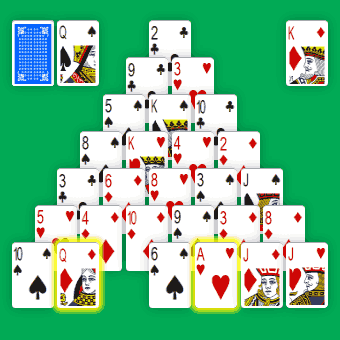
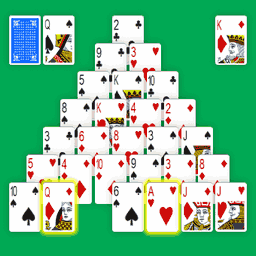
Wip: Canfield beta.

diff --git a/js/canfield.min.js b/js/canfield.min.js
@@ -1,0 +1,1 @@
+"use strict";function Start(bs){K.start(bs);ck(K.ba);$("#stock").on("click",ci);$(options.src).on(options.evt,".card:last-child",cg);$("#game, #again").on("click",cf);$("#hint").on("click",cj);$("#undo").on("click",cm);$("#tool, #list").on("click",ch);$("body").on("contextmenu",cy);$(document).on("keyup",function(n){n.which===113?cf():n.which===72?cj():n.which===90?n.ctrlKey&&cm():(n.which===13||n.which===32)&&$("#win").is(":visible")&&cf()}).on("keydown",function(n){n.which===32&&n.preventDefault()});cq()}function cy(n){var bp,t,i,bu;for(cw(),K.bh(),bp=null,t=null,i=0;i<K.bo.length;i++)if(bp=K.bo[i],bp.aa!=="draw"){if(!bp.ae.ax())if(K.id==="MonteCarlo"){if(bp.az[0]!=="t")continue}else if(K.id==="Pyramid"){if(bp.az[0]!=="t")continue}else continue;t=bp;break}return t===null?!1:(bu=K.ca(t.aa,t.az,t.ae.id),cd(bu),cy(n),!1)}function cu(){try{try{$(".ui-draggable").draggable("destroy")}catch(n){}try{$(".drop").droppable("destroy")}catch(n){}}catch(t){}$("body").css("cursor","auto")}function ci(){K.bk();ck(K.ba);cq()}function co(n,t){var aa=t.draggable[0].id,az=$("#"+aa).parent().attr("id"),bu=K.ca(aa,az,this.id);cd(bu)}function cp(){if(options.dad!==""){var n={containment:"#solitaire",cursor:"move",revert:!0,opacity:1.7,revertDuration:"fast",helper:function(){var n=$(this),af=n.nextAll().addBack(),t=$("<div/>").append(af.clone()).css("margin-top",n.css("margin-top")).css("margin-left",n.css("margin-left"));return af.addClass("hide"),t},start:function(n,t){t.helper.css("z-index",1);var i={hoverClass:"hovered",tolerance:options.mod,drop:co};$(".drop").droppable(i)},stop:function(n,t){t.helper.css("z-index",0);$(".card").removeClass("hide")}};$(options.dad).draggable(n)}}function cq(){$(".dialog").hide();cp();cl();var ce=K.ce();ce!==0&&($("#win h3").hide(),ce>0&&$("#win .win").show(),ce<0&&$("#win .lost").show(),$("#win").show(),$("#overlay").show(),setTimeout(function(){$("#overlay").hide()},1e3))}function cs(ca){var n=K.bw(ca.az);ck([n]);ck([ca.ae])}function cd(bu){if(bu.length!==0){cu();for(var n=0;n<bu.length;n++)cs(bu[n]);cq()}}function cf(){K.count<10?(K.start(),ck(K.ba),cq()):location.reload()}function cg(n,aa){aa||(aa=this.id);var az=$("#"+aa).parent().attr("id"),bu=K.ca(aa,az,options.dst);cd(bu)}function ch(){$(".dialog").hide();var cz=$("#run");cz.show()}function cj(){var bp;for(cw();L.length>0;)clearTimeout(L.pop());if($(".hint").removeClass("hint"),$("#zombie").remove(),bp=K.bl(),bp!==null){var i=500,t=1500,aa=bp.aa,n=bp.ae;n.id==="stock"?(i-=500,t-=500):$("#"+aa).addClass("hint");n.id==="waste"?t-=500:n.aw()?$("#"+n.id).append("<div id='zombie' class='card hint space'>"):(aa=n.ak().ap,L.push(setTimeout(function(){$("#"+aa).addClass("hint")},i)));L.push(setTimeout(function(){$(".hint").removeClass("hint");$("#zombie").remove()},t))}}function ck(ba){for(var ar,n=0;n<ba.length;n++)ba[n]!==null&&($("#"+ba[n].id+" .card").remove(),$("#"+ba[n].id).append(ba[n].ad()));K.bg!==null&&(ar=K.bg===9?"10":E[K.bg][0],$(".drop .draw div").text(ar))}function cl(){var t=K.bj()?"+":"×",n;$("#stock .draw div").text(t);n=K.be.af.length;K.id==="AcesUp"&&(n/=4);n<6&&n>0&&$(".count .card:last-child").html("<div>"+n.toString()+"<\/div>")}function cm(){cd(K.ct())}function cw(){K.bf!==null&&(K.bf.ae.ak().ao=!1,ck([K.bf.ae]),K.bf=null)}var E=["Ace","2","3","4","5","6","7","8","9","10","Jack","Queen","King"],F=["Hearts","Spades","Diamonds","Clubs"],G=0,H=1,I=2,J=3,A=function(){function A(aa,az,ae){this.aa=aa;this.az=az;this.ae=ae}return A}(),B=function(){function B(n){this.id=n;this.ar=n%13;this.at=Math.floor(n/13);this.ay=this.at===G||this.at===I;this.au=!this.ay;this.ai=!1;this.ao=!1;this.ap=F[this.at][0]+(this.ar===9?"T":E[this.ar][0]);this.html="<div id='"+this.ap+"' class='card down'><\/div>"}return B.prototype.aq=function(){return this.ar===0},B.prototype.as=function(){return this.ar===12},B.prototype.ad=function(){var n=this.html;return this.ao&&(n=n.replace(" down"," down selected")),this.ai&&(n=n.replace(" down"," up")),n},B.prototype.toString=function(){return E[this.ar]+" "+F[this.at]},B}(),C=function(){function C(){this.af=[];for(var n=0;n<52;n++)this.af[n]=new B(n);for(n=0;n<this.af.length;n++)this.af[n]=this.af.splice(Math.floor(this.af.length*Math.random()),1,this.af[n])[0]}return C.prototype.ag=function(n){return n>this.af.length&&(n=this.af.length),this.af.splice(0,n)},C}(),D=function(){function D(ah,af,n){this.ah=ah;this.af=af;this.id=n;this.aj=-1}return D.prototype.ak=function(){return this.af[this.af.length-1]},D.prototype.al=function(aa){for(var n=0;n<this.af.length;n++)if(this.af[n].ap===aa)return n;return-1},D.prototype.am=function(){for(var n=0;n<this.af.length;n++)if(this.af[n].ai)return n;return-1},D.prototype.aw=function(){return this.af.length===0},D.prototype.ax=function(){return this.id[0]==="f"},D.prototype.ac=function(){return this.id[0]==="r"},D.prototype.av=function(){return this.id[0]==="s"},D.prototype.ab=function(){return this.id[0]==="t"},D.prototype.an=function(){return this.id[0]==="w"},D.prototype.ad=function(){var r="",i=this.aj,n,t;for(i<0&&(i=this.af.length),n=this.af.length-i,n<0&&(n=0),t=n;t<this.af.length;t++)r+=this.af[t].ad();return r},D.prototype.toString=function(){return this.id},D}(),T=function(){function T(){this.ba=[];this.bz=null;this.be=null;this.br=null;this.bt=[];this.by=[];this.bu=[];this.bi=!1;this.bo=null;this.bp=-1;this.bq=!0;this.id="Canfield";this.bs=1;this.count=0;this.bd=!0;this.bf=null;this.bg=null}return T.prototype.bh=function(){var n,t,r,u,aa,i,e,f,af,o;for(this.bo=[],this.bp=-1,i=this.bm(),e=i.length,n=0;n<e;n++)for(aa=i[n].ak().ap,t=0;t<this.by.length;t++)if(this.bb(aa,i[n].id,this.by[t].id)){this.bo.push(new A(aa,i[n].id,this.by[t]));break}for(f=[],n=0;n<e;n++)for(af=this.getCards(i[n]),r=0;r<af.length;r++)for(aa=af[r].ap,t=0;t<this.bt.length;t++)if(this.bb(aa,i[n].id,this.bt[t].id)){for(o=!1,u=0;u<this.bo.length;u++)if(this.bo[u].az===this.bt[t].id&&this.bo[u].ae.id===i[n].id){o=!0;break}o||(r===0?this.bo.push(new A(aa,i[n].id,this.bt[t])):f.push(new A(aa,i[n].id,this.bt[t])))}f.length>0&&(this.bo=this.bo.concat(f));this.bo.length===0&&this.bj()&&this.bo.push(new A("draw",this.be.id,this.be));this.bq=this.bo.length!==0},T.prototype.bj=function(){return this.id==="Cruel"||this.id==="MonteCarlo"?!this.bd:this.be&&this.be.af.length>0?!0:this.br&&this.br.af.length>0?!0:!1},T.prototype.ag=function(bs){var t=function(ah){var n=null;switch(ah){case 11:break;case 0:n="stock";break;case 1:n="waste";break;case 2:n="reserve";break;case 3:case 4:case 5:case 6:n="f"+(ah-3).toString();break;default:n="t"+(ah-7).toString()}return n},n;for(this.cz(t),this.by[0].af=this.be.af.splice(0,1),this.by[0].af[0].ai=!0,this.bg=this.by[0].af[0].ar,n=0;n<this.bt.length;n++)this.bt[n].af=this.be.af.splice(0,1),this.bt[n].af[0].ai=!0;this.bz.af=this.be.af.splice(0,13);this.bz.af[12].ai=!0;bs||(bs=this.bs);this.bs=bs;this.br.aj=3;this.bk()},T.prototype.bk=function(){var n,t;if(this.be.aw()){if(!this.br.aw()){for(this.cr("list",null,null);!this.br.aw();)n=this.br.af.pop(),n.ai=!1,this.be.af.push(n),this.cr(n.ap,this.br.id,this.be),this.cr(n.ap,this.be.id,null);this.cr("list",null,null)}}else{for(this.bs!==1&&this.cr("list",null,null),t=0;t<this.bs;t++)this.be.aw()||(n=this.be.af.pop(),this.br.af.push(n),this.cr(n.ap,this.be.id,this.br),n.ai=!0,this.cr(n.ap,this.br.id,null));this.bs!==1&&this.cr("list",null,null)}this.bd=!0;this.bh()},T.prototype.getCards=function(ae){var t=ae.af.length,i=t-1,r=[],n;for(this.id==="Yukon"&&(i=ae.am()),n=i;n<t;n++)r.push(ae.af[n]);return r},T.prototype.bl=function(){return(this.bo===null&&this.bh(),!this.bq)?null:(this.bp++,this.bp===this.bo.length&&(this.bp=0),this.bo[this.bp])},T.prototype.bm=function(){var n=this.bt.filter(function(n){return!n.aw()}),t=this.id==="Cruel";return n.sort(function(n,i){var r=i.af.length-n.af.length;return t&&(r=i.ak().ar-n.ak().ar),r===0&&(r=n.ah-i.ah),r}),this.id==="Pyramid"&&this.br.af.length>0&&n.push(this.br),this.id==="Canfield"&&this.br.af.length>0&&n.push(this.br),this.id==="Canfield"&&this.bz.af.length>0&&n.push(this.bz),n},T.prototype.bw=function(n){for(var t=0;t<this.ba.length;t++)if(this.ba[t].id===n)return this.ba[t];return null},T.prototype.bb=function(aa,az,n){var u,i;if(this.bi)return!0;if(az===n)return!1;var r=this.bw(az),f=r.al(aa),t=r.af[f];return t.ai?r.ab()&&f!==0&&f!==r.af.length-1?!1:(u=this.bw(n),i=u.ak(),u.ab())?u.aw()?r.ac()?!0:this.bz.aw()?!0:!1:t.ay===i.ay?!1:t.ar===i.ar-1?!0:t.as()&&i.aq():u.ax()?aa!==r.ak().ap?!1:u.aw()?t.ar===this.bg:t.at!==i.at?!1:t.ar===i.ar+1?!0:t.aq()&&i.as():!1:!1},T.prototype.ca=function(aa,az,n){var u=["f0","f1","f2","f3"],t,r,i,bu;for(n!=="?"&&(u=[n]),t=0;t<u.length;t++){if(n=u[t],this.bb(aa,az,n))break;n=""}if(n==="")return[];var f=this.bw(az),e=this.bw(n),o=f.al(aa),af=f.af.splice(o);for(t=0;t<af.length;t++)e.af.push(af[t]);return this.bd=!1,r=null,this.bi||(i=f.ak(),i&&!i.ai&&(i.ai=!0,r=i.ap)),bu=[this.cr(aa,az,e)],r&&bu.push(this.cr(r,az,null)),bu},T.prototype.cz=function(n){for(var r=new C,i,t=0;t<99;t++){if(i=n(t),i===null)break;this.ba[t]=new D(t,[],i)}for(this.bt=[],this.by=[],t=0;t<this.ba.length;t++)switch(this.ba[t].id[0]){case"r":this.bz=this.ba[t];break;case"s":this.be=this.ba[t];break;case"w":this.br=this.ba[t];break;case"t":this.bt.push(this.ba[t]);break;case"f":this.by.push(this.ba[t])}this.be||(this.be=new D(99,[],""));this.be.af=r.ag(99);this.bu=[];this.bo=null},T.prototype.start=function(bs){for(var ce=-1;ce===-1;)this.ag(bs),ce=this.ce();this.count++},T.prototype.ce=function(){var n=this.by.reduce(function(n,t){return n+t.af.length},0);return n===52?1:n===48&&this.id==="AcesUp"?1:(n=this.bt.reduce(function(n,t){return n+t.af.length},0),n===0&&this.id==="Golf")?1:n===0&&this.id==="Pyramid"?1:(this.bh(),!this.bq)?-1:0},T.prototype.cr=function(aa,az,ae){this.bo=null;var ca=new A(aa,az,ae);return this.bi||this.bu.push(ca),ca},T.prototype.ct=function(){var n,t,i,r,u,bu;if(this.bu.length===0)return[];n=this.bu[this.bu.length-1];t=0;n.aa==="list"?(t=99999,n=this.bu.pop()):t=n.ae===null?2:1;i=[];this.bi=!0;do n=this.bu.pop(),n.aa==="list"?t=0:n.ae===null?(r=this.bw(n.az),u=r.al(n.aa),r.af[u].ai=!r.af[u].ai,i.push(n)):(bu=this.ca(n.aa,n.ae.id,n.az),i.push(bu[0])),t--;while(t>0);return this.bi=!1,i},T}(),K=new T,L=[],options={evt:"dblclick",src:"#tableaux, #waste",dst:"?",dad:"#plateaux .up:last-child, #tableaux .up:last-child, #tableaux .up:first-child",mod:"pointer"}

diff --git a/canfield/index.html b/canfield/index.html
@@ -24,6 +24,19 @@
     <!--[if lt IE 9]>
       <script src="../js/html5shiv.min.js"></script>
     <![endif]-->
+    <style type="text/css">
+#plateaux .draw div {
+  color: #eee;
+  cursor: default;
+  font-size: 4rem;
+  font-weight: bold;
+  margin-top: -3rem !important;
+  opacity: .6;
+  position: absolute;
+  width: 100%;
+  top: 50%;
+}
+    </style>
   </head>
 
   <body id="canfield">
@@ -47,9 +60,9 @@
           <div id="waste" class="column pile pile-stack"></div>
           <div class="column space pile"><!-- space --></div>
           <div id="f0" class="column drop pile pile-stack"></div>
-          <div id="f1" class="column drop pile pile-stack"></div>
-          <div id="f2" class="column drop pile pile-stack"></div>
-          <div id="f3" class="column drop pile pile-stack"></div>
+          <div id="f1" class="column drop pile pile-stack"><div class="draw"><div>?</div></div></div>
+          <div id="f2" class="column drop pile pile-stack"><div class="draw"><div>?</div></div></div>
+          <div id="f3" class="column drop pile pile-stack"><div class="draw"><div>?</div></div></div>
         </div>
 
         <div id="tableaux" class="row">
@@ -113,18 +126,8 @@
           the stock (top left) and the game starts with one card turned into the
           waste pile.
         </p>
-        <ul>
-          <li>You can play the last card of each pile from the tableau to the
-            foundation of the same suit, in ascending order.</li>
-          <li>All visibles cards from one pile can be moved to another, but in
-            alternate color and descending order: 7 of Hearts, 6 of Clubs, 5 of
-            Diamonds, 4 of Clubs...</li>
-          <li>Only a King can go to an empty pile.</li>
-        </ul>
         <p>
-          Canfield is easy to play but it's a strategic solitaire game. First,
-          build aces to the foundation as soon as possible. Then, uncover faces
-          down cards so you can start moving cards around...
+          <strong>Warning</strong>: This is work in progress...
         </p>
         <h3>How to play Free Canfield Solitaire</h3>
         <p>
